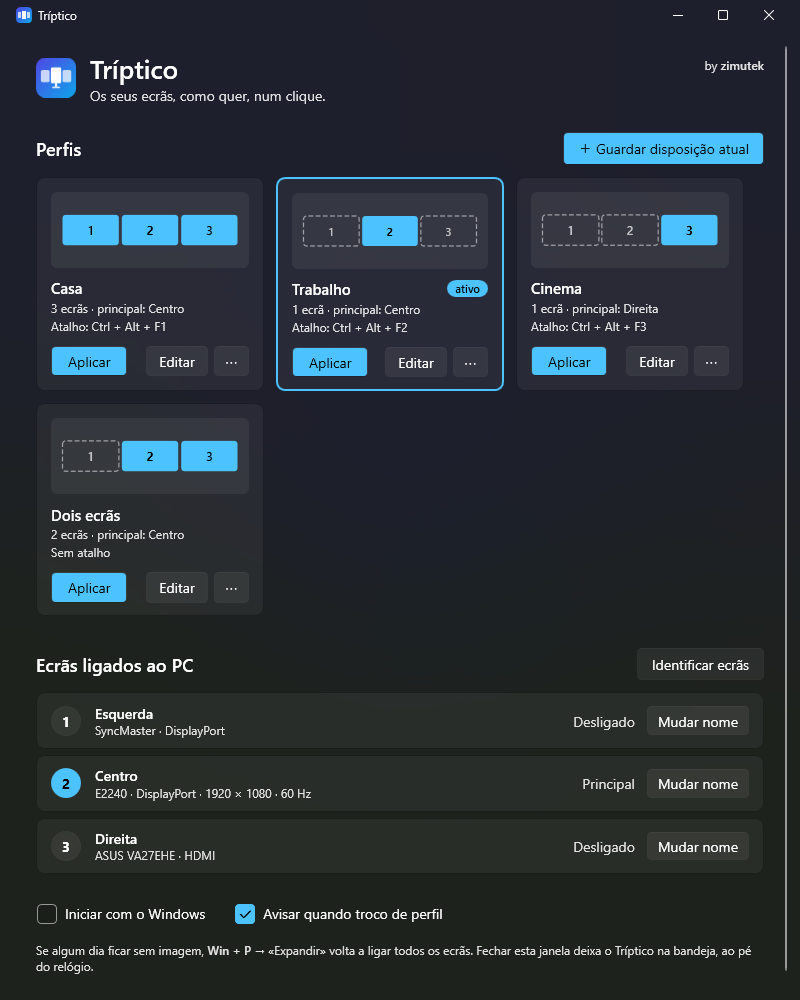
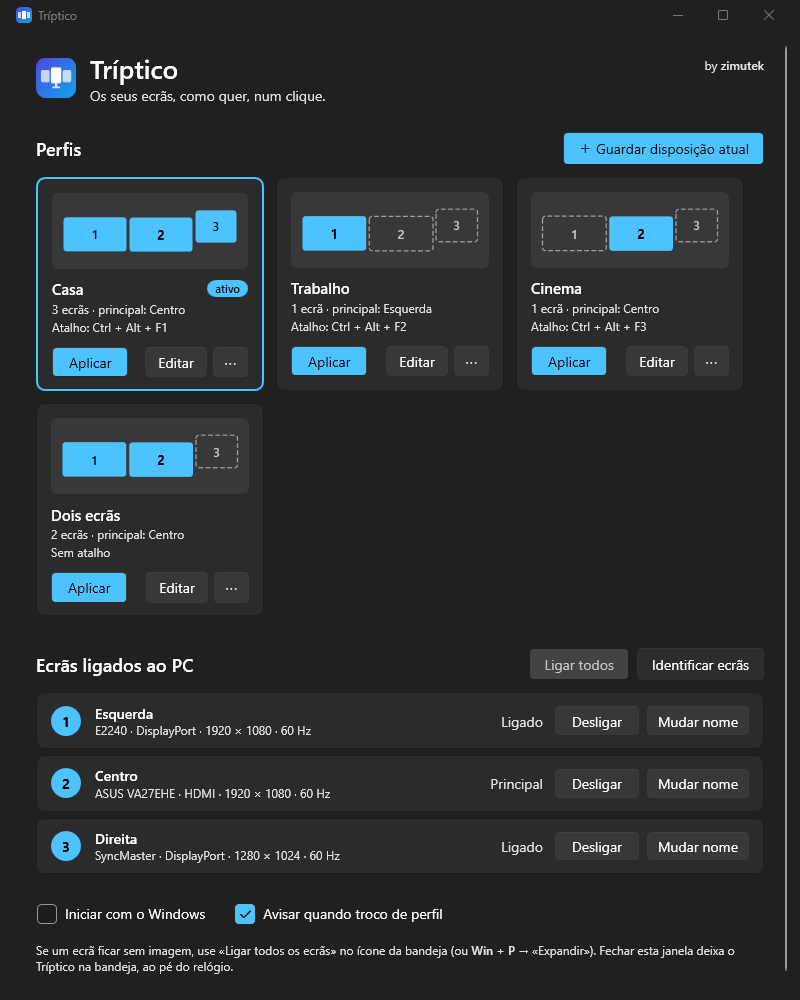
Ligar e desligar ecrãs sem precisar de perfis
Sem perfis, a app não tinha forma de voltar a ligar um ecrã desligado: o
utilizador ficou preso com um só monitor. Agora:

- cada ecrã da lista tem Ligar / Desligar (o último ligado não se desliga);
- «Ligar todos» na janela e «Ligar todos os ecrãs» no menu da bandeja,
  sempre presente, mesmo sem perfis;
- --ligar-todos na linha de comandos.

A dica «Win + P → Expandir volta a ligar todos» estava errada: o Windows
repõe a última combinação que guardou, que pode deixar um ecrã desligado.
Corrigida na app e nos README.

diff --git a/src/Triptico/Views/MainWindow.xaml b/src/Triptico/Views/MainWindow.xaml
@@ -36,9 +36,10 @@
                 <StackPanel>
                     <TextBlock Text="Ainda não há perfis" FontSize="16" FontWeight="SemiBold" />
                     <TextBlock Style="{StaticResource Muted}" Margin="0,6,0,14">
-                        Um perfil guarda que ecrãs ficam ligados e onde fica cada um.
+                        Um perfil guarda que ecrãs ficam ligados e onde fica cada um, para trocar com um atalho.
                         Crie os sugeridos (todos os ecrãs + um só com cada ecrã) ou arrume os ecrãs
                         no Windows como gosta e clique em «Guardar disposição atual».
+                        Para ligar ou desligar um ecrã já, use os botões na lista em baixo.
                     </TextBlock>
                     <Button Content="Criar perfis sugeridos" Click="Suggested_Click" HorizontalAlignment="Left"
                             Style="{DynamicResource AccentButtonStyle}" Padding="14,6" />
@@ -111,6 +112,8 @@
             <!-- Ecrãs -->
             <DockPanel Margin="0,20,0,12">
                 <Button DockPanel.Dock="Right" Content="Identificar ecrãs" Click="Identify_Click" Padding="14,6" />
+                <Button x:Name="EnableAllButton" DockPanel.Dock="Right" Content="Ligar todos" Click="EnableAll_Click"
+                        Padding="14,6" Margin="0,0,8,0" Style="{DynamicResource AccentButtonStyle}" />
                 <TextBlock Text="Ecrãs ligados ao PC" Style="{StaticResource SectionTitle}" />
             </DockPanel>
 
@@ -126,7 +129,15 @@
                                                HorizontalAlignment="Center" VerticalAlignment="Center" />
                                 </Border>
                                 <Button DockPanel.Dock="Right" Content="Mudar nome" Click="Rename_Click" Tag="{Binding}"
-                                        Padding="10,4" VerticalAlignment="Center" Margin="12,0,0,0" />
+                                        Padding="10,4" VerticalAlignment="Center" Margin="8,0,0,0" />
+                                <Button DockPanel.Dock="Right" Content="Ligar" Click="TurnOn_Click" Tag="{Binding}"
+                                        Padding="14,4" MinWidth="84" VerticalAlignment="Center" Margin="12,0,0,0"
+                                        Visibility="{Binding OffVisibility}" IsEnabled="{Binding CanToggle}"
+                                        Style="{DynamicResource AccentButtonStyle}" />
+                                <Button DockPanel.Dock="Right" Content="Desligar" Click="TurnOff_Click" Tag="{Binding}"
+                                        Padding="14,4" MinWidth="84" VerticalAlignment="Center" Margin="12,0,0,0"
+                                        Visibility="{Binding OnVisibility}" IsEnabled="{Binding CanTurnOff}"
+                                        ToolTip="Desliga este ecrã no Windows; os outros ficam como estão." />
                                 <TextBlock DockPanel.Dock="Right" Text="{Binding State}" VerticalAlignment="Center"
                                            Style="{StaticResource Muted}" />
                                 <StackPanel VerticalAlignment="Center">
@@ -154,7 +165,8 @@
                           Checked="Notify_Changed" Unchecked="Notify_Changed" />
             </WrapPanel>
             <TextBlock Style="{StaticResource Muted}" FontSize="12" Margin="0,12,0,0">
-                Se algum dia ficar sem imagem, <Run FontWeight="SemiBold" Text="Win + P" /> → «Expandir» volta a ligar todos os ecrãs.
+                Se um ecrã ficar sem imagem, use «Ligar todos os ecrãs» no ícone da bandeja
+                (ou <Run FontWeight="SemiBold" Text="Win + P" /> → «Expandir»).
                 Fechar esta janela deixa o Tríptico na bandeja, ao pé do relógio.
             </TextBlock>
         </StackPanel>

diff --git a/src/Triptico/App.xaml.cs b/src/Triptico/App.xaml.cs
@@ -315,13 +315,52 @@ public partial class App : Application
         if (p is not null) _ = ApplyProfileAsync(p);
     }
 
+    // ------------------------------------------------------------ ligar e desligar ecrãs
+
+    public bool AnyMonitorOff => Monitors.Any(m => !m.Active);
+
+    /// <summary>Liga ou desliga um ecrã, mantendo os outros como estão (não precisa de perfis).</summary>
+    public Task SetMonitorAsync(MonitorInfo monitor, bool on)
+    {
+        RefreshMonitors();
+        var profile = DisplayManager.Capture("", Monitors);
+        var target = profile.Monitors.FirstOrDefault(m => m.Id == monitor.Id);
+        if (target is null || target.Enabled == on) return Task.CompletedTask;
+        if (!on && profile.Monitors.Count(m => m.Enabled) <= 1)
+        {
+            _tray?.Notify("Não dá para desligar", "É o único ecrã ligado.", error: true);
+            return Task.CompletedTask;
+        }
+
+        target.Enabled = on;
+        if (!on && target.Primary)
+        {
+            target.Primary = false;
+            profile.Monitors.First(m => m.Enabled).Primary = true;
+        }
+        profile.Name = $"{MonitorName(monitor)} {(on ? "ligado" : "desligado")}";
+        return ApplyProfileAsync(profile, profile.Name);
+    }
+
+    /// <summary>Liga todos os ecrãs ligados ao PC; o principal fica o mesmo.</summary>
+    public Task EnableAllAsync()
+    {
+        RefreshMonitors();
+        var profile = DisplayManager.Capture("Todos os ecrãs ligados", Monitors);
+        foreach (var m in profile.Monitors) m.Enabled = true;
+        return ApplyProfileAsync(profile, profile.Name);
+    }
+
     // ------------------------------------------------------------ aplicar
 
-    public async Task ApplyProfileAsync(Profile profile)
+    /// <param name="doneTitle">Título do aviso quando não é um perfil guardado (ex.: «ASUS ligado»).</param>
+    public async Task ApplyProfileAsync(Profile profile, string? doneTitle = null)
     {
         if (IsApplying) return;
         IsApplying = true;
         StateChanged?.Invoke();
+        var okTitle = doneTitle ?? $"«{profile.Name}» aplicado";
+        var failTitle = doneTitle is null ? $"Não deu para aplicar «{profile.Name}»" : "Não deu para mudar os ecrãs";
         try
         {
             var snapshot = profile.Clone();
@@ -332,7 +371,7 @@ public partial class App : Application
             RefreshMonitors();
             if (!result.Success)
             {
-                _tray?.Notify($"Não deu para aplicar «{profile.Name}»", result.Message, error: true);
+                _tray?.Notify(failTitle, result.Message, error: true);
                 return;
             }
 
@@ -346,14 +385,14 @@ public partial class App : Application
             Save();
 
             if (result.Missing.Count > 0)
-                _tray?.Notify($"«{profile.Name}» aplicado", "Não encontrei: " + string.Join(", ", result.Missing));
+                _tray?.Notify(okTitle, "Não encontrei: " + string.Join(", ", result.Missing));
             else if (Settings.ShowNotifications)
-                _tray?.Notify($"«{profile.Name}» aplicado", "");
+                _tray?.Notify(okTitle, "");
         }
         catch (Exception ex)
         {
             Log.Write("Erro a aplicar: " + ex);
-            _tray?.Notify($"Não deu para aplicar «{profile.Name}»", ex.Message, error: true);
+            _tray?.Notify(failTitle, ex.Message, error: true);
         }
         finally
         {
@@ -368,6 +407,7 @@ public partial class App : Application
 ///   Triptico.exe --perfil "Trabalho"   aplica e sai
 ///   Triptico.exe --listar              mostra ecrãs e perfis
 ///   Triptico.exe --testar "Trabalho"   pergunta ao Windows se aceitaria, sem mudar nada
+///   Triptico.exe --ligar-todos         liga todos os ecrãs ligados ao PC
 /// </summary>
 internal static class CommandLine
 {
@@ -375,7 +415,7 @@ internal static class CommandLine
     {
         exitCode = 0;
         var cmd = args.FirstOrDefault()?.ToLowerInvariant();
-        if (cmd is not ("--perfil" or "--listar" or "--testar")) return false;
+        if (cmd is not ("--perfil" or "--listar" or "--testar" or "--ligar-todos")) return false;
 
         AttachConsole(-1);
         Console.WriteLine();
@@ -399,11 +439,20 @@ internal static class CommandLine
                 return true;
             }
 
-            var name = string.Join(' ', args.Skip(1));
-            var profile = settings.Profiles.FirstOrDefault(p => string.Equals(p.Name, name, StringComparison.CurrentCultureIgnoreCase));
+            Profile? profile;
+            if (cmd == "--ligar-todos")
+            {
+                profile = DisplayManager.Capture("Todos os ecrãs", DisplayManager.GetMonitors());
+                foreach (var m in profile.Monitors) m.Enabled = true;
+            }
+            else
+            {
+                var name = string.Join(' ', args.Skip(1));
+                profile = settings.Profiles.FirstOrDefault(p => string.Equals(p.Name, name, StringComparison.CurrentCultureIgnoreCase));
+            }
             if (profile is null)
             {
-                Console.WriteLine($"Perfil «{name}» não existe.");
+                Console.WriteLine($"Perfil «{string.Join(' ', args.Skip(1))}» não existe.");
                 exitCode = 2;
                 return true;
             }

diff --git a/src/Triptico/Views/MainWindow.xaml.cs b/src/Triptico/Views/MainWindow.xaml.cs
@@ -29,6 +29,7 @@ public partial class MainWindow : Window
         ProfilesList.ItemsSource = cards;
         EmptyState.Visibility = cards.Count == 0 ? Visibility.Visible : Visibility.Collapsed;
         MonitorsList.ItemsSource = _app.Monitors.Select(m => new MonitorRow(m, _app)).ToList();
+        EnableAllButton.IsEnabled = _app.AnyMonitorOff && !_app.IsApplying;
         StartupCheck.IsChecked = StartupRegistration.IsEnabled;
         NotifyCheck.IsChecked = _app.Settings.ShowNotifications;
         _loading = false;
@@ -119,6 +120,18 @@ public partial class MainWindow : Window
 
     private void Identify_Click(object sender, RoutedEventArgs e) => IdentifyOverlay.ShowAll();
 
+    private async void EnableAll_Click(object sender, RoutedEventArgs e) => await _app.EnableAllAsync();
+
+    private async void TurnOn_Click(object sender, RoutedEventArgs e)
+    {
+        if ((sender as FrameworkElement)?.Tag is MonitorRow row) await _app.SetMonitorAsync(row.Monitor, on: true);
+    }
+
+    private async void TurnOff_Click(object sender, RoutedEventArgs e)
+    {
+        if ((sender as FrameworkElement)?.Tag is MonitorRow row) await _app.SetMonitorAsync(row.Monitor, on: false);
+    }
+
     private void Rename_Click(object sender, RoutedEventArgs e)
     {
         if ((sender as FrameworkElement)?.Tag is not MonitorRow row) return;
@@ -200,4 +213,10 @@ public sealed class MonitorRow(MonitorInfo monitor, App app)
     }
 
     public string State => !Monitor.Active ? "Desligado" : Monitor.Primary ? "Principal" : "Ligado";
+
+    public Visibility OnVisibility => Monitor.Active ? Visibility.Visible : Visibility.Collapsed;
+    public Visibility OffVisibility => Monitor.Active ? Visibility.Collapsed : Visibility.Visible;
+    public bool CanToggle => !app.IsApplying;
+    /// <summary>O último ecrã ligado não se pode desligar.</summary>
+    public bool CanTurnOff => CanToggle && app.Monitors.Count(m => m.Active) > 1;
 }

diff --git a/src/Triptico/Services/TrayIcon.cs b/src/Triptico/Services/TrayIcon.cs
@@ -61,6 +61,10 @@ internal sealed class TrayIcon : IDisposable
         }
 
         _menu.Items.Add(new WinForms.ToolStripSeparator());
+        // Sempre presente, mesmo sem perfis: é a saída de emergência.
+        var all = new WinForms.ToolStripMenuItem("Ligar todos os ecrãs") { Enabled = _app.AnyMonitorOff && !_app.IsApplying };
+        all.Click += (_, _) => _ = _app.EnableAllAsync();
+        _menu.Items.Add(all);
         _menu.Items.Add("Abrir o Tríptico", null, (_, _) => _app.ShowMain());
         _menu.Items.Add("Identificar ecrãs", null, (_, _) => IdentifyOverlay.ShowAll());
         _menu.Items.Add(new WinForms.ToolStripSeparator());

diff --git a/README.md b/README.md
@@ -31,14 +31,18 @@
 >
 > **Tested on one desk.** It was built for the author's own three-monitor setup: one GPU,
 > two DisplayPort screens and one HDMI. Detection, profile editing, hotkeys and the tray were
-> tested there, and every kind of profile change was checked with Windows' own dry run
-> (`SDC_VALIDATE`), which tells you whether Windows would accept a change without making it.
-> Other GPUs, laptops, docks and daisy-chains have not been tested.
+> tested there, and turning every display back on was done for real. The other kinds of
+> change were checked with Windows' own dry run (`SDC_VALIDATE`), which tells you whether
+> Windows would accept a change without making it. Other GPUs, laptops, docks and
+> daisy-chains have not been tested.
 >
 > **The interface is in Portuguese** (pt-PT) for now.
 >
-> **If a screen ever stays dark:** press <kbd>Win</kbd> + <kbd>P</kbd> and pick *Extend*. That
-> always brings every display back. No warranty of any kind, see [LICENSE](LICENSE).
+> **If a screen ever stays dark:** right-click the tray icon and pick *Ligar todos os ecrãs*
+> (turn all displays on). It's there even before you create any profile.
+> <kbd>Win</kbd> + <kbd>P</kbd> → *Extend* helps too, but it brings back the last set of
+> displays Windows remembers, which isn't always all of them. No warranty of any kind, see
+> [LICENSE](LICENSE).
 
 ---
 
@@ -69,7 +73,9 @@ Tríptico does one thing: **profiles for your displays**, one hotkey each.
 - **Global hotkeys** that keep working while the window is closed. The editor warns you
   about combinations that would break typing: on many European layouts Ctrl + Alt *is*
   AltGr, so Ctrl + Alt + 2 would cost you the `@`.
-- **Tray menu** listing your profiles, with the active one ticked.
+- **Turn a single display on or off** straight from the list, or **all of them at once**.
+  No profile needed.
+- **Tray menu** listing your profiles, with the active one ticked, plus *turn all displays on*.
 - **Identify displays** puts a large number on every screen for three seconds. Displays are
   numbered left to right as they sit on your desk, whether they're on or off right now.
 - **Your own names** for displays ("Left", "Laptop"…), used everywhere in the app.
@@ -141,9 +147,11 @@ again.
 
 ## Using it
 
-1. Open **Tríptico** from the Start menu.
-2. Click **Criar perfis sugeridos** (*create suggested profiles*), or arrange your screens in
-   Windows the way you like and click **Guardar disposição atual** (*save current layout*).
+1. Open **Tríptico** from the Start menu. To switch a display right away, use **Ligar** /
+   **Desligar** (*on* / *off*) next to it, or **Ligar todos** (*all on*).
+2. For hotkeys, turn on the displays you use at home first, then click **Criar perfis
+   sugeridos** (*create suggested profiles*): it saves that layout as "all screens". Or arrange
+   your screens the way you like and click **Guardar disposição atual** (*save current layout*).
 3. **Editar** (*edit*) a profile to rename it, tick the displays that stay on, pick the
    primary and record a hotkey.
 4. Close the window. Tríptico stays in the tray, next to the clock, and the hotkeys keep
@@ -155,6 +163,7 @@ again.
 Triptico.exe --perfil "Trabalho"   apply a profile and exit
 Triptico.exe --listar              list displays and profiles
 Triptico.exe --testar "Trabalho"   ask Windows whether it would accept the profile, change nothing
+Triptico.exe --ligar-todos         turn every connected display on
 Triptico.exe --bandeja             start hidden in the tray
 ```
 

diff --git a/LEIAME.md b/LEIAME.md
@@ -31,12 +31,15 @@
 >
 > **Testado numa secretária.** Foi feita para a montagem do autor, com três monitores, uma placa
 > gráfica, dois ecrãs DisplayPort e um HDMI. A deteção, a edição de perfis, os atalhos e a bandeja
-> foram testados aí. Todos os tipos de mudança de perfil foram verificados com o ensaio do próprio
-> Windows (`SDC_VALIDATE`), que diz se o Windows aceitaria a mudança sem a fazer. Outras placas,
-> portáteis, docks e ligações em cadeia não foram testados.
+> foram testados aí, e voltar a ligar todos os ecrãs foi feito a sério. Os outros tipos de mudança
+> foram verificados com o ensaio do próprio Windows (`SDC_VALIDATE`), que diz se o Windows
+> aceitaria a mudança sem a fazer. Outras placas, portáteis, docks e ligações em cadeia não foram
+> testados.
 >
-> **Se algum ecrã ficar sem imagem:** <kbd>Win</kbd> + <kbd>P</kbd> → *Expandir* volta sempre a
-> ligar todos. Sem garantia de qualquer tipo, ver a [LICENSE](LICENSE).
+> **Se algum ecrã ficar sem imagem:** botão direito no ícone da bandeja → *Ligar todos os ecrãs*.
+> Está lá mesmo antes de criar perfis. <kbd>Win</kbd> + <kbd>P</kbd> → *Expandir* também ajuda,
+> mas repõe a última combinação de ecrãs que o Windows guardou, que nem sempre são todos. Sem
+> garantia de qualquer tipo, ver a [LICENSE](LICENSE).
 
 ---
 
@@ -66,7 +69,9 @@ O Tríptico faz uma coisa só: **perfis de ecrãs**, um atalho para cada um.
 - **Atalhos globais**, que funcionam com a janela fechada. O editor avisa quando um atalho
   estragaria a escrita: no teclado português, Ctrl + Alt *é* o AltGr, e Ctrl + Alt + 2
   levava-lhe o `@`.
-- **Menu na bandeja** com os perfis e o ativo assinalado.
+- **Ligar ou desligar um ecrã** diretamente na lista, ou **todos de uma vez**, sem precisar
+  de perfis.
+- **Menu na bandeja** com os perfis, o ativo assinalado e *Ligar todos os ecrãs*.
 - **Identificar ecrãs**: um número grande em cada monitor durante três segundos. Os ecrãs são
   numerados da esquerda para a direita, como estão na secretária, ligados ou não.
 - **Nomes próprios** para os ecrãs («Esquerda», «Portátil»…).
@@ -134,7 +139,9 @@ voltar a encontrar.
 ## Usar
 
 1. Abra o **Tríptico** no menu Iniciar.
-2. Clique em **Criar perfis sugeridos**, ou arrume os ecrãs no Windows como gosta e clique em
+   Para mudar um ecrã já, use **Ligar** / **Desligar** ao lado dele, ou **Ligar todos**.
+2. Para ter atalhos, ligue primeiro os ecrãs que usa em casa e clique em **Criar perfis
+   sugeridos**: essa disposição fica como «todos os ecrãs». Ou arrume os ecrãs como gosta e clique em
    **Guardar disposição atual**.
 3. Em **Editar**, mude o nome, marque os ecrãs que ficam ligados, escolha o principal e grave um
    atalho.
@@ -147,6 +154,7 @@ voltar a encontrar.
 Triptico.exe --perfil "Trabalho"   aplica o perfil e sai
 Triptico.exe --listar              mostra ecrãs e perfis
 Triptico.exe --testar "Trabalho"   pergunta ao Windows se aceitaria o perfil, sem mudar nada
+Triptico.exe --ligar-todos         liga todos os ecrãs ligados ao PC
 Triptico.exe --bandeja             arranca escondido na bandeja
 ```
 

diff --git a/CLAUDE.md b/CLAUDE.md
@@ -21,6 +21,11 @@ Marca "by zimutek". Tudo em português de Portugal (interface, comentários, com
 
 ## Regras
 
+- **Nunca deixar o utilizador sem forma de ligar ecrãs**: mesmo sem perfis, a lista tem
+  Ligar/Desligar por ecrã e há «Ligar todos» na janela e na bandeja (`--ligar-todos` na linha
+  de comandos). O Win + P → Expandir do Windows NÃO liga todos: repõe a última combinação que
+  guardou (em 28/09 ligou 2 e desligou o 3.º).
+
 - **Não aplicar perfis a sério durante testes**: muda os ecrãs do utilizador (e os monitores podem estar
   a mostrar o PC do trabalho). Para testar, usar `--testar "Perfil"` (SDC_VALIDATE, não muda nada)
   e `TRIPTICO_DADOS=<pasta de testes>` para não mexer nos perfis reais.
